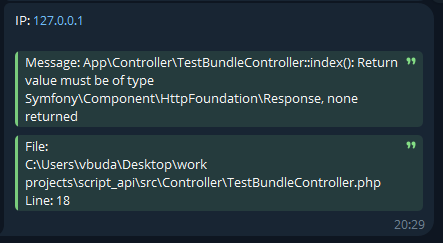
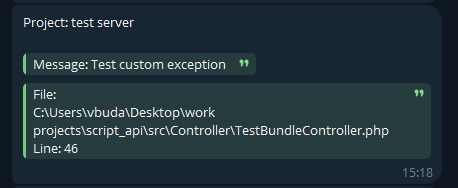
Изменена строка сообщения, названия переменных в .env, namespace в исключениях

diff --git a/src/Entity/AbstractNotification.php b/src/Entity/AbstractNotification.php
@@ -4,66 +4,66 @@ namespace LinkageCrm\CriticalAlertingBundle\Entity;
 
 abstract class AbstractNotification
 {
-	protected string $ip;
-	protected string $message;
-	protected string $file;
-	protected int    $line;
-	
-	abstract public function __toString(): string;
-	
-	public static function createFromThrowable(\Throwable $e): self
-	{
-		$notification = new static();
-        $notification
-			->setIp($_SERVER['REMOTE_ADDR'])
-			->setMessage($e->getMessage())
-			->setFile($e->getFile())
-			->setLine($e->getLine());
+    protected string $project_name;
+    protected string $message;
+    protected string $file;
+    protected int    $line;
 
-		return $notification;
-	}
-	
-	public function getIp(): string
-	{
-		return $this->ip;
-	}
-	
-	public function setIp(string $ip): self
-	{
-		$this->ip = $ip;
-		return $this;
-	}
-	
-	public function getMessage(): string
-	{
-		return $this->message;
-	}
-	
-	public function setMessage(string $message): self
-	{
-		$this->message = $message;
-		return $this;
-	}
-	
-	public function getFile(): string
-	{
-		return $this->file;
-	}
-	
-	public function setFile(string $file): self
-	{
-		$this->file = $file;
-		return $this;
-	}
-	
-	public function getLine(): int
-	{
-		return $this->line;
-	}
-	
-	public function setLine(int $line): self
-	{
-		$this->line = $line;
-		return $this;
-	}
+    abstract public function __toString(): string;
+
+    public static function createFromThrowable(\Throwable $e): self
+    {
+        $notification = new static();
+        $notification
+            ->setProjectName($_ENV['CRITICAL_ALERTING_PROJECT_NAME'] ?? '')
+            ->setMessage($e->getMessage())
+            ->setFile($e->getFile())
+            ->setLine($e->getLine());
+
+        return $notification;
+    }
+
+    public function getProjectName(): string
+    {
+        return $this->project_name;
+    }
+
+    public function setProjectName(string $project_name): self
+    {
+        $this->project_name = $project_name;
+        return $this;
+    }
+
+    public function getMessage(): string
+    {
+        return $this->message;
+    }
+
+    public function setMessage(string $message): self
+    {
+        $this->message = $message;
+        return $this;
+    }
+
+    public function getFile(): string
+    {
+        return $this->file;
+    }
+
+    public function setFile(string $file): self
+    {
+        $this->file = $file;
+        return $this;
+    }
+
+    public function getLine(): int
+    {
+        return $this->line;
+    }
+
+    public function setLine(int $line): self
+    {
+        $this->line = $line;
+        return $this;
+    }
 }

diff --git a/src/Notificator/TelegramNotificator.php b/src/Notificator/TelegramNotificator.php
@@ -13,31 +13,31 @@ use Symfony\Contracts\HttpClient\Exception\TransportExceptionInterface;
 class TelegramNotificator implements NotificatorInterface
 {
     private const BASE_URL = 'https://api.telegram.org/bot';
-	private const REQUIRE_ENVS = ['TELEGRAM_CRITICAL_ERRORS_BOT_TOKEN', 'TELEGRAM_CRITICAL_ERRORS_CHAT_ID'];
+    private const REQUIRE_ENVS = ['CRITICAL_ALERTING_PROJECT_NAME', 'CRITICAL_ALERTING_TG_BOT_TOKEN', 'CRITICAL_ALERTING_TG_CHAT_ID'];
 
-	public static function sendNotification(string $notification): array
+    public static function sendNotification(string $notification): array
     {
         if(!EnvValidator::isAppEnvProd()){
             return [];
         }
 
-		try{
-			EnvValidator::validate(self::REQUIRE_ENVS);
+        try{
+            EnvValidator::validate(self::REQUIRE_ENVS);
 
-			return self::sendRequest('sendMessage', [
-                'chat_id'    => $_ENV['TELEGRAM_CRITICAL_ERRORS_CHAT_ID'],
+            return self::sendRequest('sendMessage', [
+                'chat_id'    => $_ENV['CRITICAL_ALERTING_TG_CHAT_ID'],
                 'text'       => $notification,
                 'parse_mode' => 'HTML',
             ]);
-		}
-		catch (NotFoundRequiredEnvException $e){
-			return ['code' => $e->getCode(), 'success' => false, 'message' => $e->getMessage()];
-		}
+        }
+        catch (NotFoundRequiredEnvException $e){
+            return ['code' => $e->getCode(), 'success' => false, 'message' => $e->getMessage()];
+        }
     }
 
     private static function sendRequest(string $action, array $requestData): array
     {
-        $botToken = $_ENV['TELEGRAM_CRITICAL_ERRORS_BOT_TOKEN'];
+        $botToken = $_ENV['CRITICAL_ALERTING_TG_BOT_TOKEN'];
 
         $httpClient = HttpClient::create();
         $url = self::BASE_URL."$botToken/$action";

diff --git a/src/Validator/EnvValidator.php b/src/Validator/EnvValidator.php
@@ -6,17 +6,17 @@ use LinkageCrm\CriticalAlertingBundle\Exception\Validator\NotFoundRequiredEnvExc
 
 class EnvValidator
 {
-	/**
-	 * @throws NotFoundRequiredEnvException
-	 */
-	public static function validate(array $requireEnvs): void
-	{
-		foreach ($requireEnvs as $envName) {
-			if (!isset($_ENV[$envName])) {
-				throw new NotFoundRequiredEnvException($envName);
-			}
-		}
-	}
+    /**
+     * @throws NotFoundRequiredEnvException
+     */
+    public static function validate(array $requireEnvs): void
+    {
+        foreach ($requireEnvs as $envName) {
+            if (!isset($_ENV[$envName])) {
+                throw new NotFoundRequiredEnvException($envName);
+            }
+        }
+    }
 
     public static function isAppEnvProd(): bool
     {

diff --git a/src/Entity/TelegramNotification.php b/src/Entity/TelegramNotification.php
@@ -7,9 +7,9 @@ class TelegramNotification extends AbstractNotification
 {
     public function __toString(): string
     {
-        return "IP: $this->ip\n\n" .
-               "<blockquote>Message: $this->message</blockquote>\n" .
-               "<blockquote>File: \n$this->file\n" .
-			   "Line: $this->line</blockquote>";
+        return "Project: $this->project_name\n\n" .
+            "<blockquote>Message: $this->message</blockquote>\n" .
+            "<blockquote>File: \n$this->file\n" .
+            "Line: $this->line</blockquote>";
     }
 }

diff --git a/src/EventListener/ExceptionListener.php b/src/EventListener/ExceptionListener.php
@@ -2,7 +2,7 @@
 
 namespace LinkageCrm\CriticalAlertingBundle\EventListener;
 
-use LinkageCrm\CriticalAlertingBundle\Exception\Notificiable\AbstractNotifiableException;
+use LinkageCrm\CriticalAlertingBundle\Exception\Notifiable\AbstractNotifiableException;
 use LinkageCrm\CriticalAlertingBundle\Entity\TelegramNotification;
 use LinkageCrm\CriticalAlertingBundle\Notificator\TelegramNotificator;
 use Symfony\Component\HttpKernel\Event\ExceptionEvent;

diff --git a/src/Exception/Notifiable/TelegramNotifiableException.php b/src/Exception/Notifiable/TelegramNotifiableException.php
@@ -1,6 +1,6 @@
 <?php
 
-namespace LinkageCrm\CriticalAlertingBundle\Exception\Notificiable;
+namespace LinkageCrm\CriticalAlertingBundle\Exception\Notifiable;
 
 use LinkageCrm\CriticalAlertingBundle\Entity\TelegramNotification;
 use LinkageCrm\CriticalAlertingBundle\Notificator\TelegramNotificator;

diff --git a/src/Exception/Notifiable/AbstractNotifiableException.php b/src/Exception/Notifiable/AbstractNotifiableException.php
@@ -1,6 +1,6 @@
 <?php
 
-namespace LinkageCrm\CriticalAlertingBundle\Exception\Notificiable;
+namespace LinkageCrm\CriticalAlertingBundle\Exception\Notifiable;
 
 abstract class AbstractNotifiableException extends \Exception
 {

diff --git a/README.md b/README.md
@@ -23,17 +23,17 @@ return [
 ```
 APP_ENV=prod
 
-TELEGRAM_CRITICAL_ERRORS_BOT_TOKEN=your_bot_token
-
-TELEGRAM_CRITICAL_ERRORS_CHAT_ID=your_chat_id
+CRITICAL_ALERTING_PROJECT_NAME=<your_project_name>
+CRITICAL_ALERTING_TG_BOT_TOKEN=<your_bot_token>
+CRITICAL_ALERTING_TG_CHAT_ID=<your_chat_id>
 ```
 
 ## Примеры:
 
-1) Через наследование исключения TelegramNotificableException:
+1) Через наследование исключения TelegramNotifiableException:
 
 ```php
-use LinkageCrm\CriticalAlertingBundle\Exception\Notificiable\TelegramNotifiableException;
+use LinkageCrm\CriticalAlertingBundle\Exception\Notifiable\TelegramNotifiableException;
 
 class MyCustomException extends TelegramNotifiableException
 {
@@ -47,10 +47,10 @@ try{
 }
 ```
 
-2)  Без наследования TelegramNotificableException:
+2)  Без наследования TelegramNotifiableException:
 
 ```php
-use LinkageCrm\CriticalAlertingBundle\Exception\Notificiable\TelegramNotifiableException;
+use LinkageCrm\CriticalAlertingBundle\Exception\Notifiable\TelegramNotifiableException;
 
 try{
     // Your code which throws TelegramNotifiableException
@@ -62,7 +62,7 @@ try{
 3) Собственное исключение с другой логикой уведомления:
 
 ```php
-use LinkageCrm\CriticalAlertingBundle\Exception\Notificiable\AbstractNotifiableException;
+use LinkageCrm\CriticalAlertingBundle\Exception\Notifiable\AbstractNotifiableException;
 
 class MyCustomException extends AbstractNotifiableException
 {
@@ -92,7 +92,7 @@ foo();
 ```
 
 ## Вид сообщения с ошибкой:
-1) IP сервера с ошибкой
+1) Название сервера
 2) Текст ошибки
 3) Файл ошибки
 4) Строка ошибки
